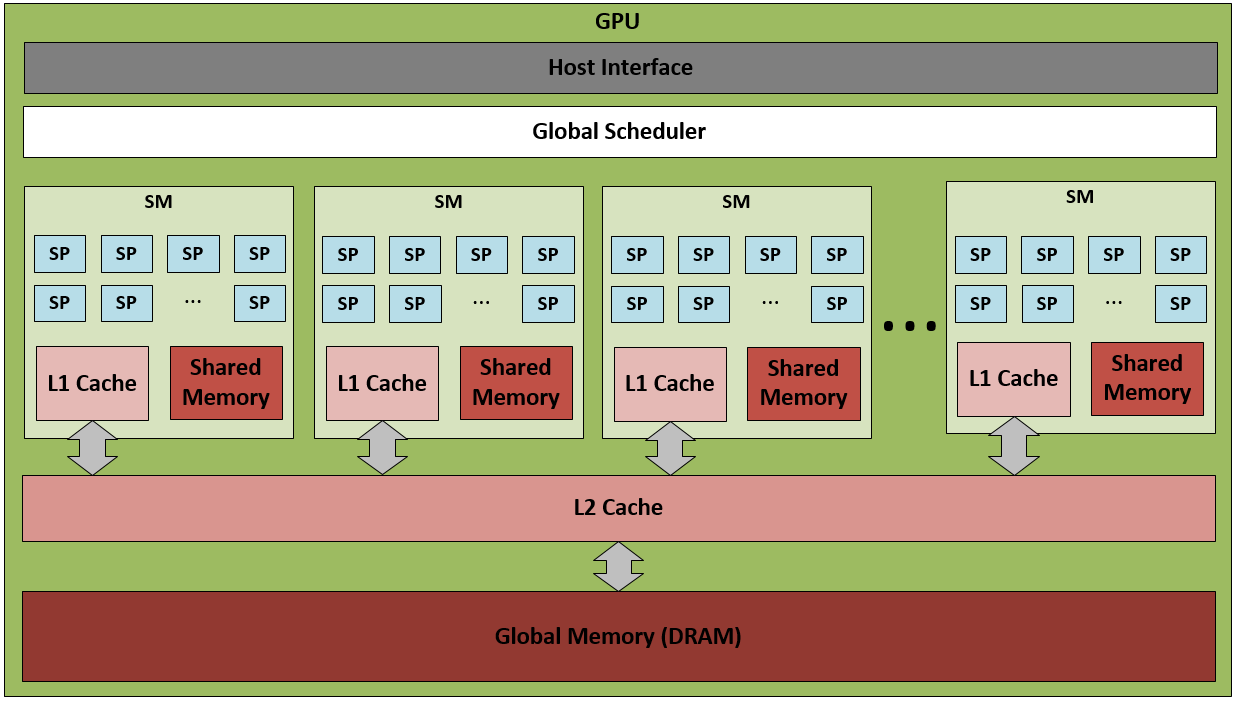
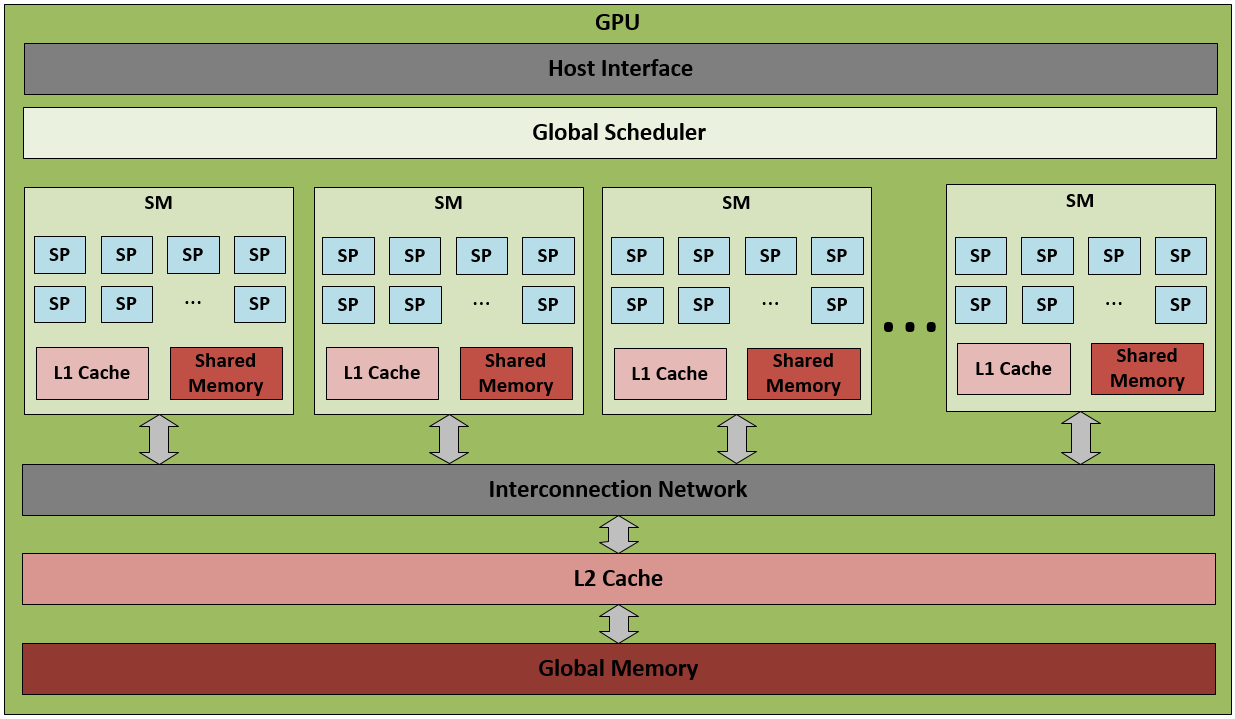
Various changes + Figure updates + Started SP work.

diff --git a/doc/content/hw-streaming-multiprocessors.tex b/doc/content/hw-streaming-multiprocessors.tex
@@ -3,22 +3,21 @@ It handles all tasks submitted to the GPU, which is executed in its sub componen
 \Cref{fig:hw-sm} presents the hardware architecture of a basic SM, containing the key components which makes up the SM.
 However keep in mind that this is not the complete content of all SMs, as the ones chosen presented here, is selected to provide an overview.
 
-%TODO Update quality
 \begin{figure}[H]
 	\centering
 	\fbox{
 		\includegraphics[width=0.8\textwidth]{figs/hw/hw-sm} }
-	\caption{TBD}
+	\caption{Streaming Multiprocessor and Streaming Processor conceptual architecture}
 	\label{fig:hw-sm}
 \end{figure}
 
-The key components and their functionality of SMs are:
+The key components of the SM are described one by one, including their functionalities within the SM:
 
 \begin{itemize}
 	\item \textbf{Streaming Processor (SM) -}  The most essential component of the SM is the SP, which is the basic computing element of the GPU.
 	\Cref{sec-hw-streaming-processors} describes SP in detail, this section will cover its purpose within the SM.
 	
-	\item \textbf{Special Function Units (SFU) -} SFUs are a approximation units, which computes fast single-precision approximations of transcendental functions such as logarithm, exponential, sine and cosine \cite{Wilt2013}.
+	\item \textbf{Special Function Units (SFU) -} SFUs are approximation units, which computes fast single-precision approximations of transcendental functions such as logarithm, exponential, sine and cosine \cite{Wilt2013}.
 	Each of the SFUs also contains four floating-point multipliers that can offer extra throughput in addition to the SPs \cite{Li2016}.
 	
 	\item \textbf{Register File -} The Register File can be described as a chuck of memory used by the threads running on the SPs within a single SM. 
@@ -30,33 +29,32 @@ The key components and their functionality of SMs are:
 	\item \textbf{Shared Memory -} The Shared Memory is used to share data between threads running in the same block within the SM.
 	Where the data stored in the Register File is only accessible by a single thread, the data stored in the Shared Memory can be accessed by multiple threads, which is further described in \cref{sec-hw-memory-model}.
 		
-	\item \textbf{Texture Cache -} The Texture Cache is a R/O used to access texture memory, allocated in the Global Memory.
+	\item \textbf{Texture Cache -} The Texture Cache is a read-only cache used to access texture memory, allocated in the Global Memory.
 	Texture memory is useful for data containing interpolation, which for example could be 2D or 3D lookup tables \cite{Cook2008}.
+	As this data is mostly used for graphical purposes, the texture cache will not be further specified.
 	
-	\item \textbf{Constant Cache -} Just as the Texture Cache, the Constant Cache is R/O.
+	\item \textbf{Constant Cache -} Just as the Texture Cache, the Constant Cache is read-only.
 	Constant Cache is used for commonly used data, which is stored in the constant memory instead of global memory.
 	This is done for the purpose of increasing performance in comparison to long latencies in conjunction with global memory accesses, which is further described in \cref{sec-hw-memory-model}.
 	
 	
-	\item \textbf{L1 Cache -} 
-	%First, let’s pick up on theintroduction of the L1 cache and what this means. An L1 (level one) cache is a cache present on a device and is the fastest cache type available.
-	%The introduction of a cache makes it much easier for many programmers to write programs that work well on GPU hardware. It also allows for applications that do not follow a known memory pattern at compile time. However, to exploit the cache, the application either needs to have a sequential memory pattern or have at least some data reuse.
-		
+	\item \textbf{L1 Cache -} As the two other caches mentioned above, the L1 Cache is used by the SM to access frequently used data. 
+	Depending on the architecture version, the memory size of the L1 Cache is either fixed or configurable.
+	In case of a configurable L1 Cache size, the L1 shares a combined memory space with the Shared Memory.
+	This combined memory is then configurable, allowing for hardware that can be adjusted depending on the application needs. Like Constant Cache, the L1 Cache is covered in \cref{sec-hw-memory-model}.
+
 	\item  \textbf{Instruction Buffer \& Warp Scheduler -} The Instruction Buffer and Warp Scheduler are used to coordinate instructions and dispatch them to SPs.
-	\Cref{sec-hw-warps} describes how these work in depth.
+	More information regarding these components is found in \cref{sec-hw-warps}.
 		
 \end{itemize}
 
 \Cref{fig:hw-sm-inside} presents an overview of how the different computational components of the SM is connected to the different memory components.
-%TODO Tilføj mere generelt info om SM
 
-
-%TODO Update quality
 \begin{figure}[H]
 	\centering
 	\fbox{
 		\includegraphics[width=0.6\textwidth]{figs/hw/hw-sm-inside} }
-	\caption{TBD}
+	\caption{Internal Streaming Multiprocessor connections}
 	\label{fig:hw-sm-inside}
 \end{figure}
 

diff --git a/doc/content/hw-gpu-architecture.tex b/doc/content/hw-gpu-architecture.tex
@@ -13,26 +13,31 @@ On a high level, the GPU can be described as an array of \textit{N} SMs, each co
 The number of SMs contained in GPUs varies a lot, from small GPUs only containing a single SM, to the newest Nvidia architecture \textit{Tesla V100} containing 84 SMs \cite{Nvidia2017}.
 The number of SMs, and thereby the number of SPs, contained in the GPU enables more tasks to be processed at the same time or a single task to be processed faster if enough parallelism is implemented for this given task.
 Therefore, the future evolution of GPUs is focused on increasing the number of SMs and SPs.
-%TODO Tilføj evt. mere "general information" om GPU.
 
-
-In addition to the three main block categories presented above, two other blocks is also presented on \cref{fig:hw-gpu}, namely the \textit{Host Interface} and the \textit{Global Scheduler}.
+In addition to the three main block categories presented above, three other blocks is also presented on \cref{fig:hw-gpu}, namely the \textit{Host Interface}, the \textit{Global Scheduler} and the \textit{Interconnection Network}.
 
 %Host Interface
-The Host Interface is the logical representation of the GPUs PCI Express port.
+\textbf{The Host Interface} is the logical representation of the GPUs PCI Express port.
 It implements functionality needed to perform CPU/GPU interactions. 
 The Host Interface does so, by reading commands such as \textit{copying memory} and  \textit{launching Kernels} (further described in \cref{sec-pm-kernels}), and dispatches these commands to the appropriate hardware units.
 In addition to command handling, the Host Interface also facilitates synchronization between the CPU and GPU. 
 For more information regarding the Host Interface, and the interactions between the CPU see \cite{Wilt2013} chapter 2.5 - CPU/GPU Interactions.
 
 %Global Scheduler
-The Global Scheduler, also known as "GigaThread Engine" by Nvidia \cite{Nvidia2009}, is responsible of distributing threads to SMs, where they are executed.
+\textbf{The Global Scheduler}, also known as "GigaThread Engine" by Nvidia \cite{Nvidia2009}, is responsible of distributing threads to SMs, where they are executed.
 Scheduling is done by splitting threads into thread blocks, which are further described in \cref{sec-pm-kernels}.
 After the threads are split into blocks, they are assigned to the SMs by the Global Scheduler.
 The Global Scheduler has to take several hardware constraints into consideration.
 First a single block cannot be split between two SMs.
 Also, each SM is limited in the amount of threads and blocks that can be scheduled to it. 
 More information regarding how threads and blocks are optimized split between SMs is covered in \cref{ch-opti-intro}.
+
+%Interconnection Network
+\textbf{The Interconnection Network}, also known as "NoC", is a crossbar network.
+It serves as communication channel both among the different SMs and between the individual SMs and the L2 Cache.
+
+
+
 
 \begin{figure}[ht]
 	\centering

diff --git a/doc/content/hw-streaming-processors.tex b/doc/content/hw-streaming-processors.tex
@@ -1,7 +1,8 @@
+The Streaming Processors(SP) goes under various different names including Scalar-Processors, Execution Units or the more famous CUDA Cores by Nvidia.
+SPs are the basic computing elements of a GPU, they perform fundamental operations, such as integer, floating-point, comparison and type conversions \cite{Li2016}.
+SPs are much like the cores located in CPUs, containing similarities such as simultaneous multi-threading (SMT).
 
-%Huske at tilføj:
-% Nvidia CUDA: CUDA Core
-% AMD/OpenCL: SIMD Unit
+
 
 %Increasing the number of cores, compared to an Intel P4, is
 %performed due to the lack of certain complex features that are usually implemented
